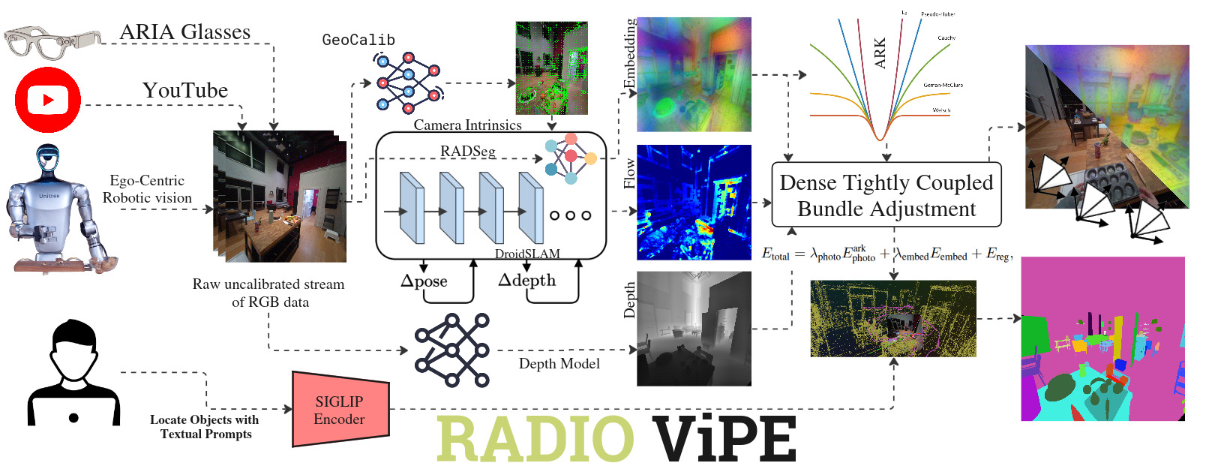
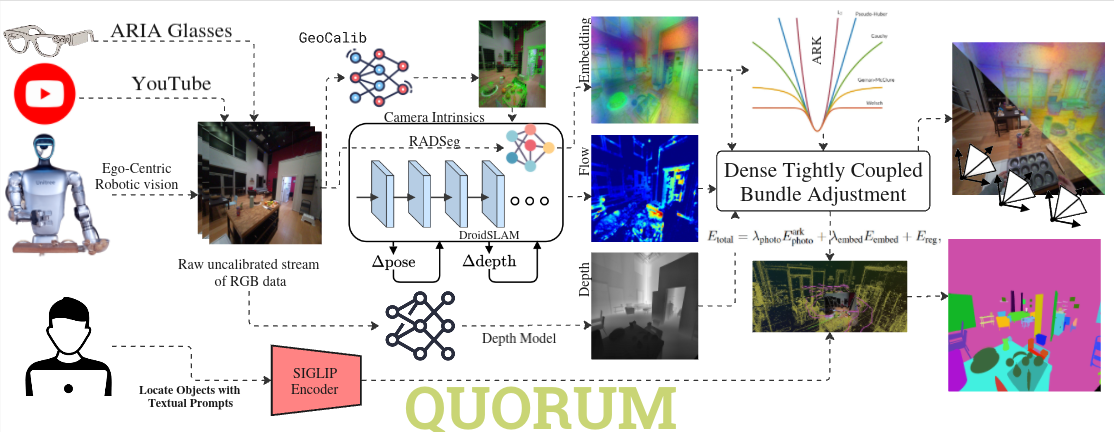
readme edit

diff --git a/semseg/image_encoders/radseg.py b/semseg/image_encoders/radseg.py
@@ -1,4 +1,4 @@
-"""Adapter exposing the existing RADIO-ViPE RADSeg encoder under semseg namespace."""
+"""Adapter exposing the existing QUORUM RADSeg encoder under semseg namespace."""
 
 from vipe.priors.embedding.radseg_encoder import RADSegEncoder
 

diff --git a/semseg/semseg_eval.py b/semseg/semseg_eval.py
@@ -1,4 +1,4 @@
-"""Semantic segmentation evaluation for RADIO-ViPE pointcloud predictions."""
+"""Semantic segmentation evaluation for QUORUM pointcloud predictions."""
 
 from collections import OrderedDict
 import logging

diff --git a/README.md b/README.md
@@ -1,8 +1,9 @@
-# RADIO-ViPE: Online Tightly Coupled Multi-Modal Fusion for Open-Vocabulary Semantic SLAM in Dynamic Environments
+# QUORUM: Multi-View Feature Consensus for Open-Vocabulary SLAM in Dynamic Scenes
 
 > **BE2R Lab** — Biomechatronics and Energy-Efficient Robotics Laboratory, ITMO University
 
-🌐 **Project Page**: [be2rlab.github.io/radio_vipe](https://be2rlab.github.io/radio_vipe/) &nbsp;|&nbsp; 📄 **Paper**: https://arxiv.org/pdf/2604.26067
+<!-- 🌐 **Project Page**: [be2rlab.github.io/radio_vipe](https://be2rlab.github.io/radio_vipe/) &nbsp;|&nbsp; 📄 **Paper**: https://arxiv.org/pdf/2604.26067 -->
+## QUORUM is accepted at the 3rd Workshop on Neural SLAM (NeuSLAM) (ECCV 2026)
 
 ---
 
@@ -10,11 +11,7 @@
 
 ## Abstract
 
-We present **RADIO-ViPE** (**R**educe **A**ll **D**omains **I**nto **O**ne — **Vi**deo **P**ose **E**ngine), an online semantic SLAM system that enables geometry-aware open-vocabulary grounding, associating arbitrary natural language queries with localized 3D regions and objects in dynamic environments.
-
-Unlike existing approaches that require calibrated, posed RGB-D input, RADIO-ViPE operates directly on raw monocular RGB video streams, requiring no prior camera intrinsics, depth sensors, or pose initialization. The system tightly couples multi-modal embeddings — spanning vision and language — derived from agglomerative foundation models (e.g., RADIO) with geometric scene information. This vision-language-geometric fusion is optimized within adaptive robust kernels, designed to handle both actively moving objects and agent-displaced scene elements (e.g., furniture rearranged during ego-centric sessions).
-
-Experiments demonstrate that RADIO-ViPE achieves state-of-the-art results on the dynamic TUM-RGBD benchmark while maintaining competitive performance against offline open-vocabulary methods that rely on calibrated data and static scene assumptions. RADIO-ViPE bridges a critical gap in real-world deployment, enabling robust open-vocabulary semantic grounding for autonomous robotics, AR/VR applications, and unconstrained in-the-wild video streams.
+We present **QUORUM**, an online semantic SLAM system that enables geometry-aware open-vocabulary fusion, where multi-view high-level features vote for a dense pixel-level visual-language embedding field. These embeddings are consumed at four stages of the SLAM stack: the optical-flow prior, factor graph topology, a cross-view residual inside dense bundle adjustment, and the per-pixel shape of the robust kernel. This fusion in BA is wrapped by a temporal stability field that aggregates cross-view embedding agreement, separating genuinely static surfaces from actively moving objects which improve robustness in dynamic environments. Unlike existing approaches that require calibrated, posed RGB-D input, QUORUM operates directly on raw monocular RGB video streams, requiring no prior camera intrinsics, depth sensors, or pose initialization. Experiments demonstrate that QUORUM achieves state-of-the-art results on the dynamic TUM-RGBD benchmark while maintaining competitive performance against offline open-vocabulary methods that rely on calibrated data and static scene assumptions. QUORUM bridges a critical gap in real-world deployment, enabling robust open-vocabulary semantic grounding for autonomous robotics and unconstrained in-the-wild video streams.
 
 ![Demo](assets/demo.gif)
 
@@ -107,7 +104,7 @@ For the full pipeline description, parameter tuning by scene type, and troublesh
 
 ## Acknowledgments
 
-RADIO-ViPE builds upon many outstanding open-source research projects and codebases, including (non-exhaustive):
+QUORUM builds upon many outstanding open-source research projects and codebases, including (non-exhaustive):
 
 | Project | Reference |
 |---|---|
